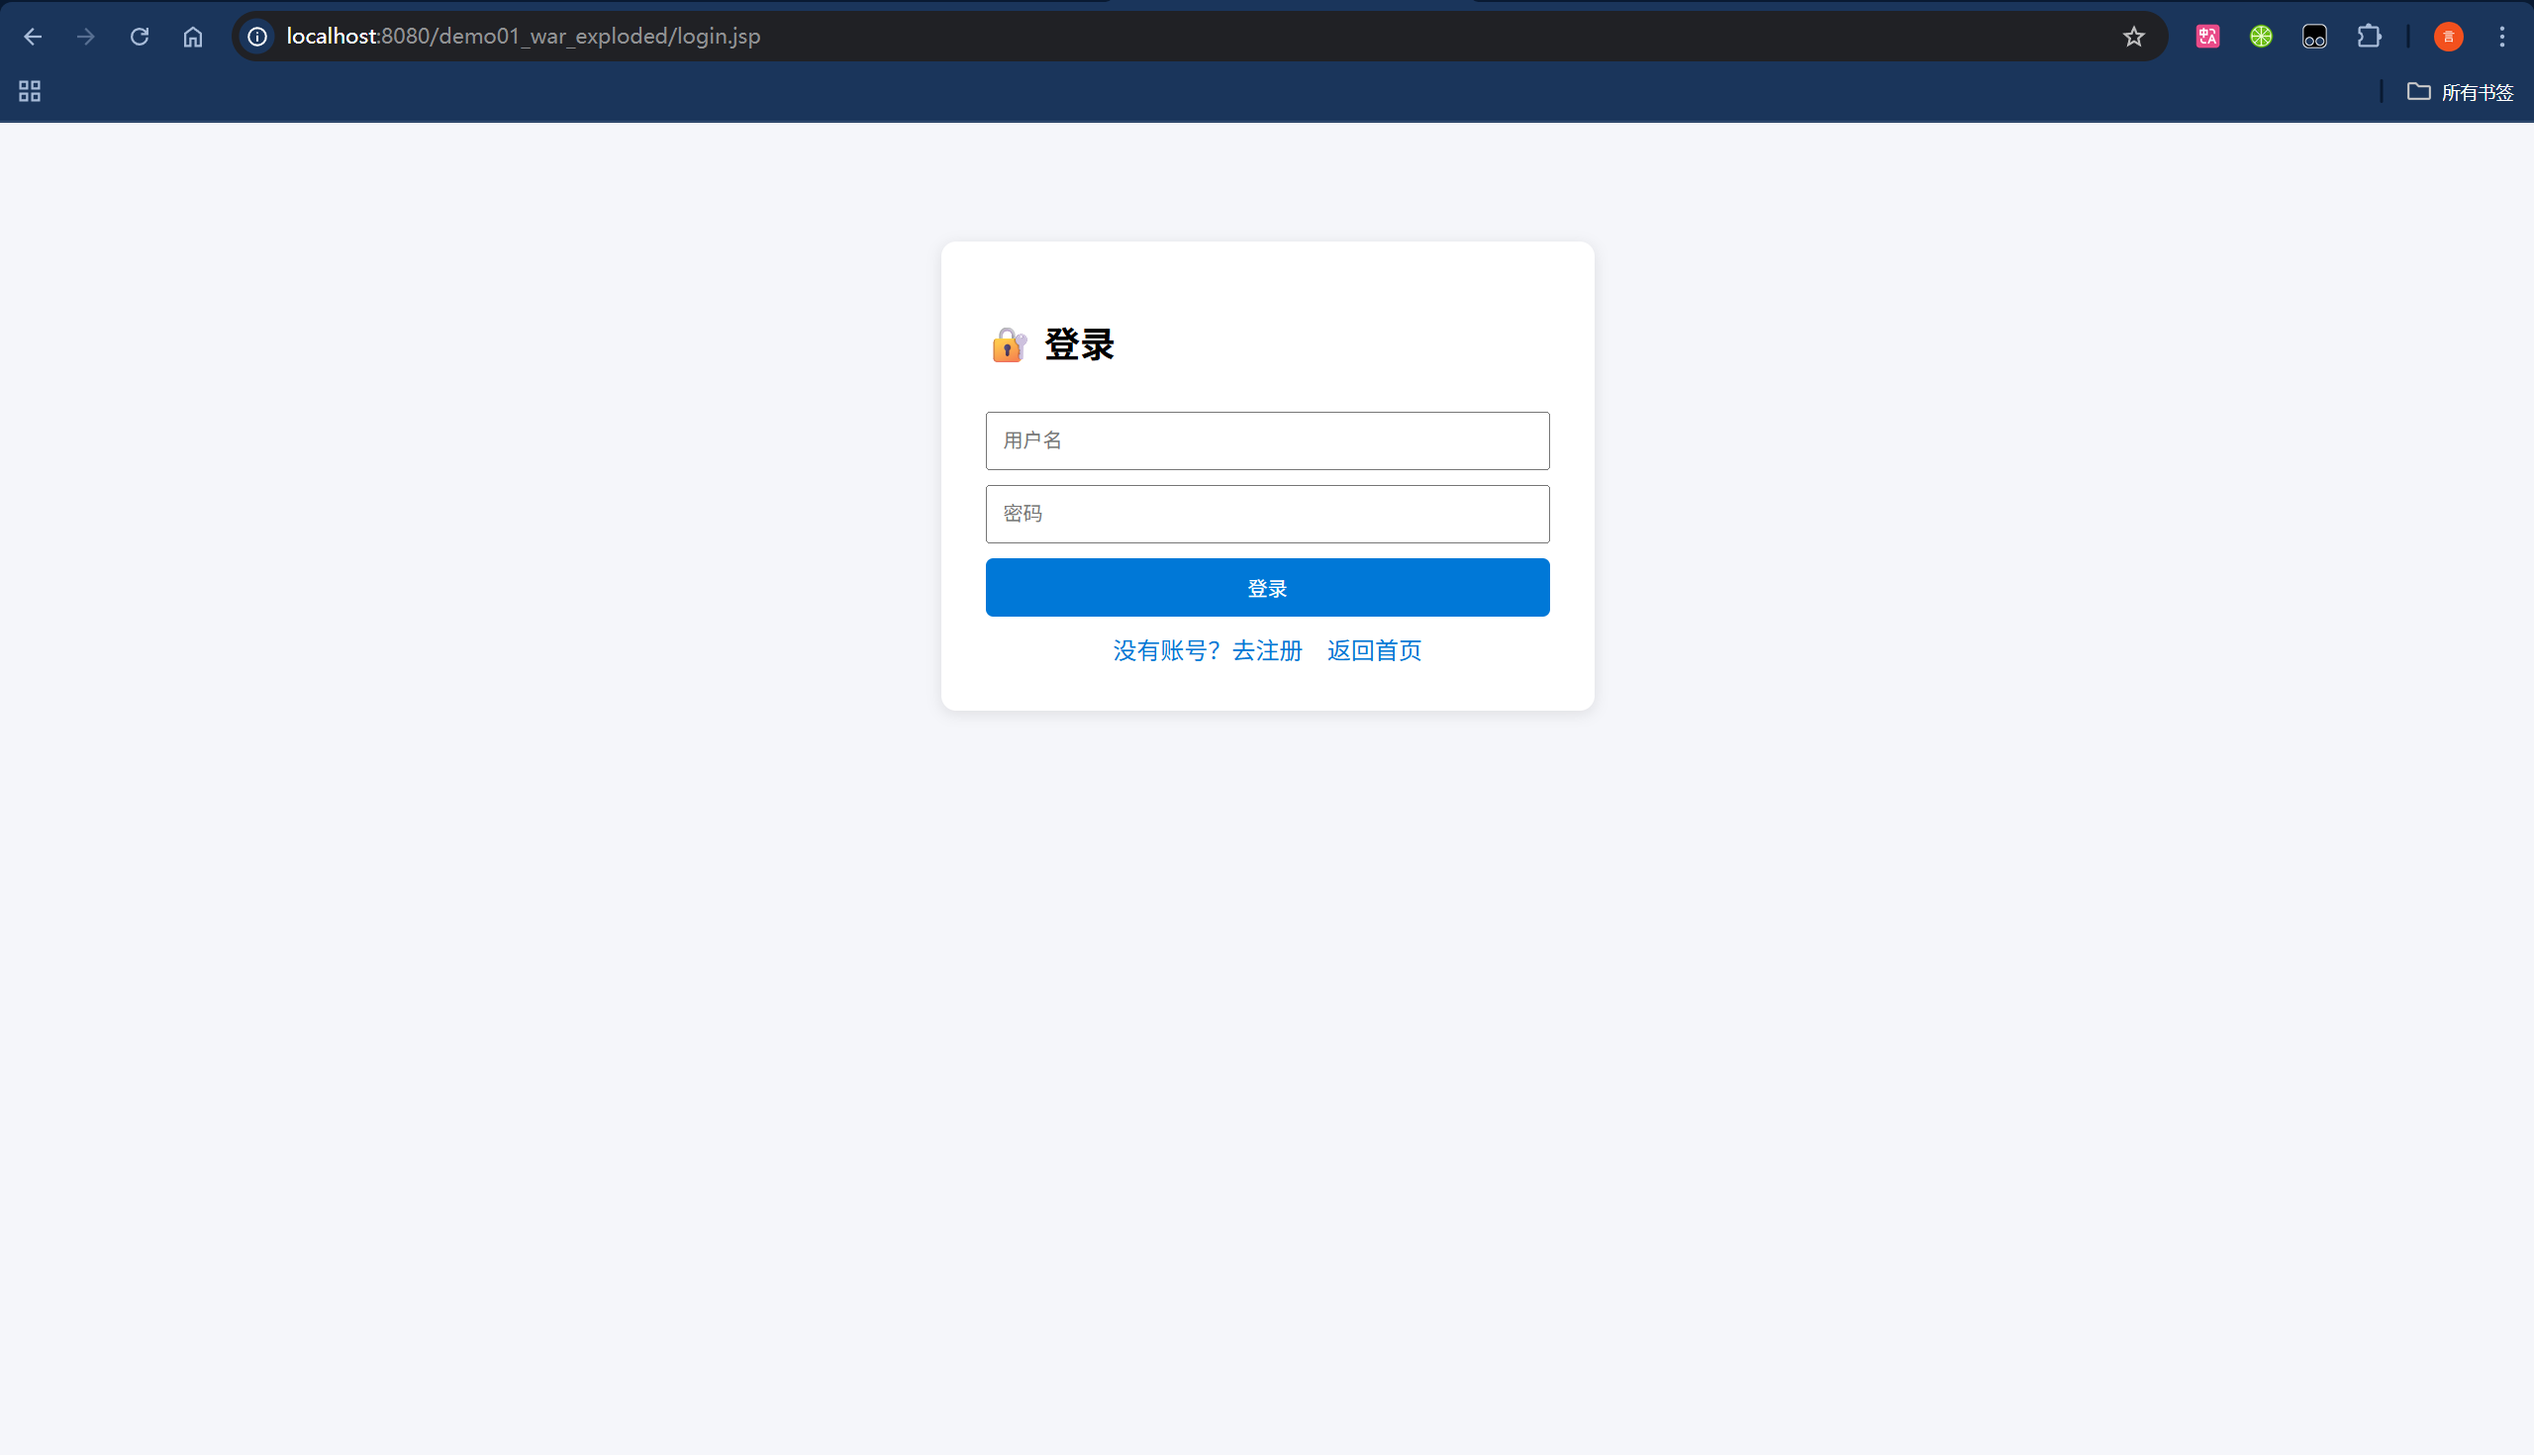
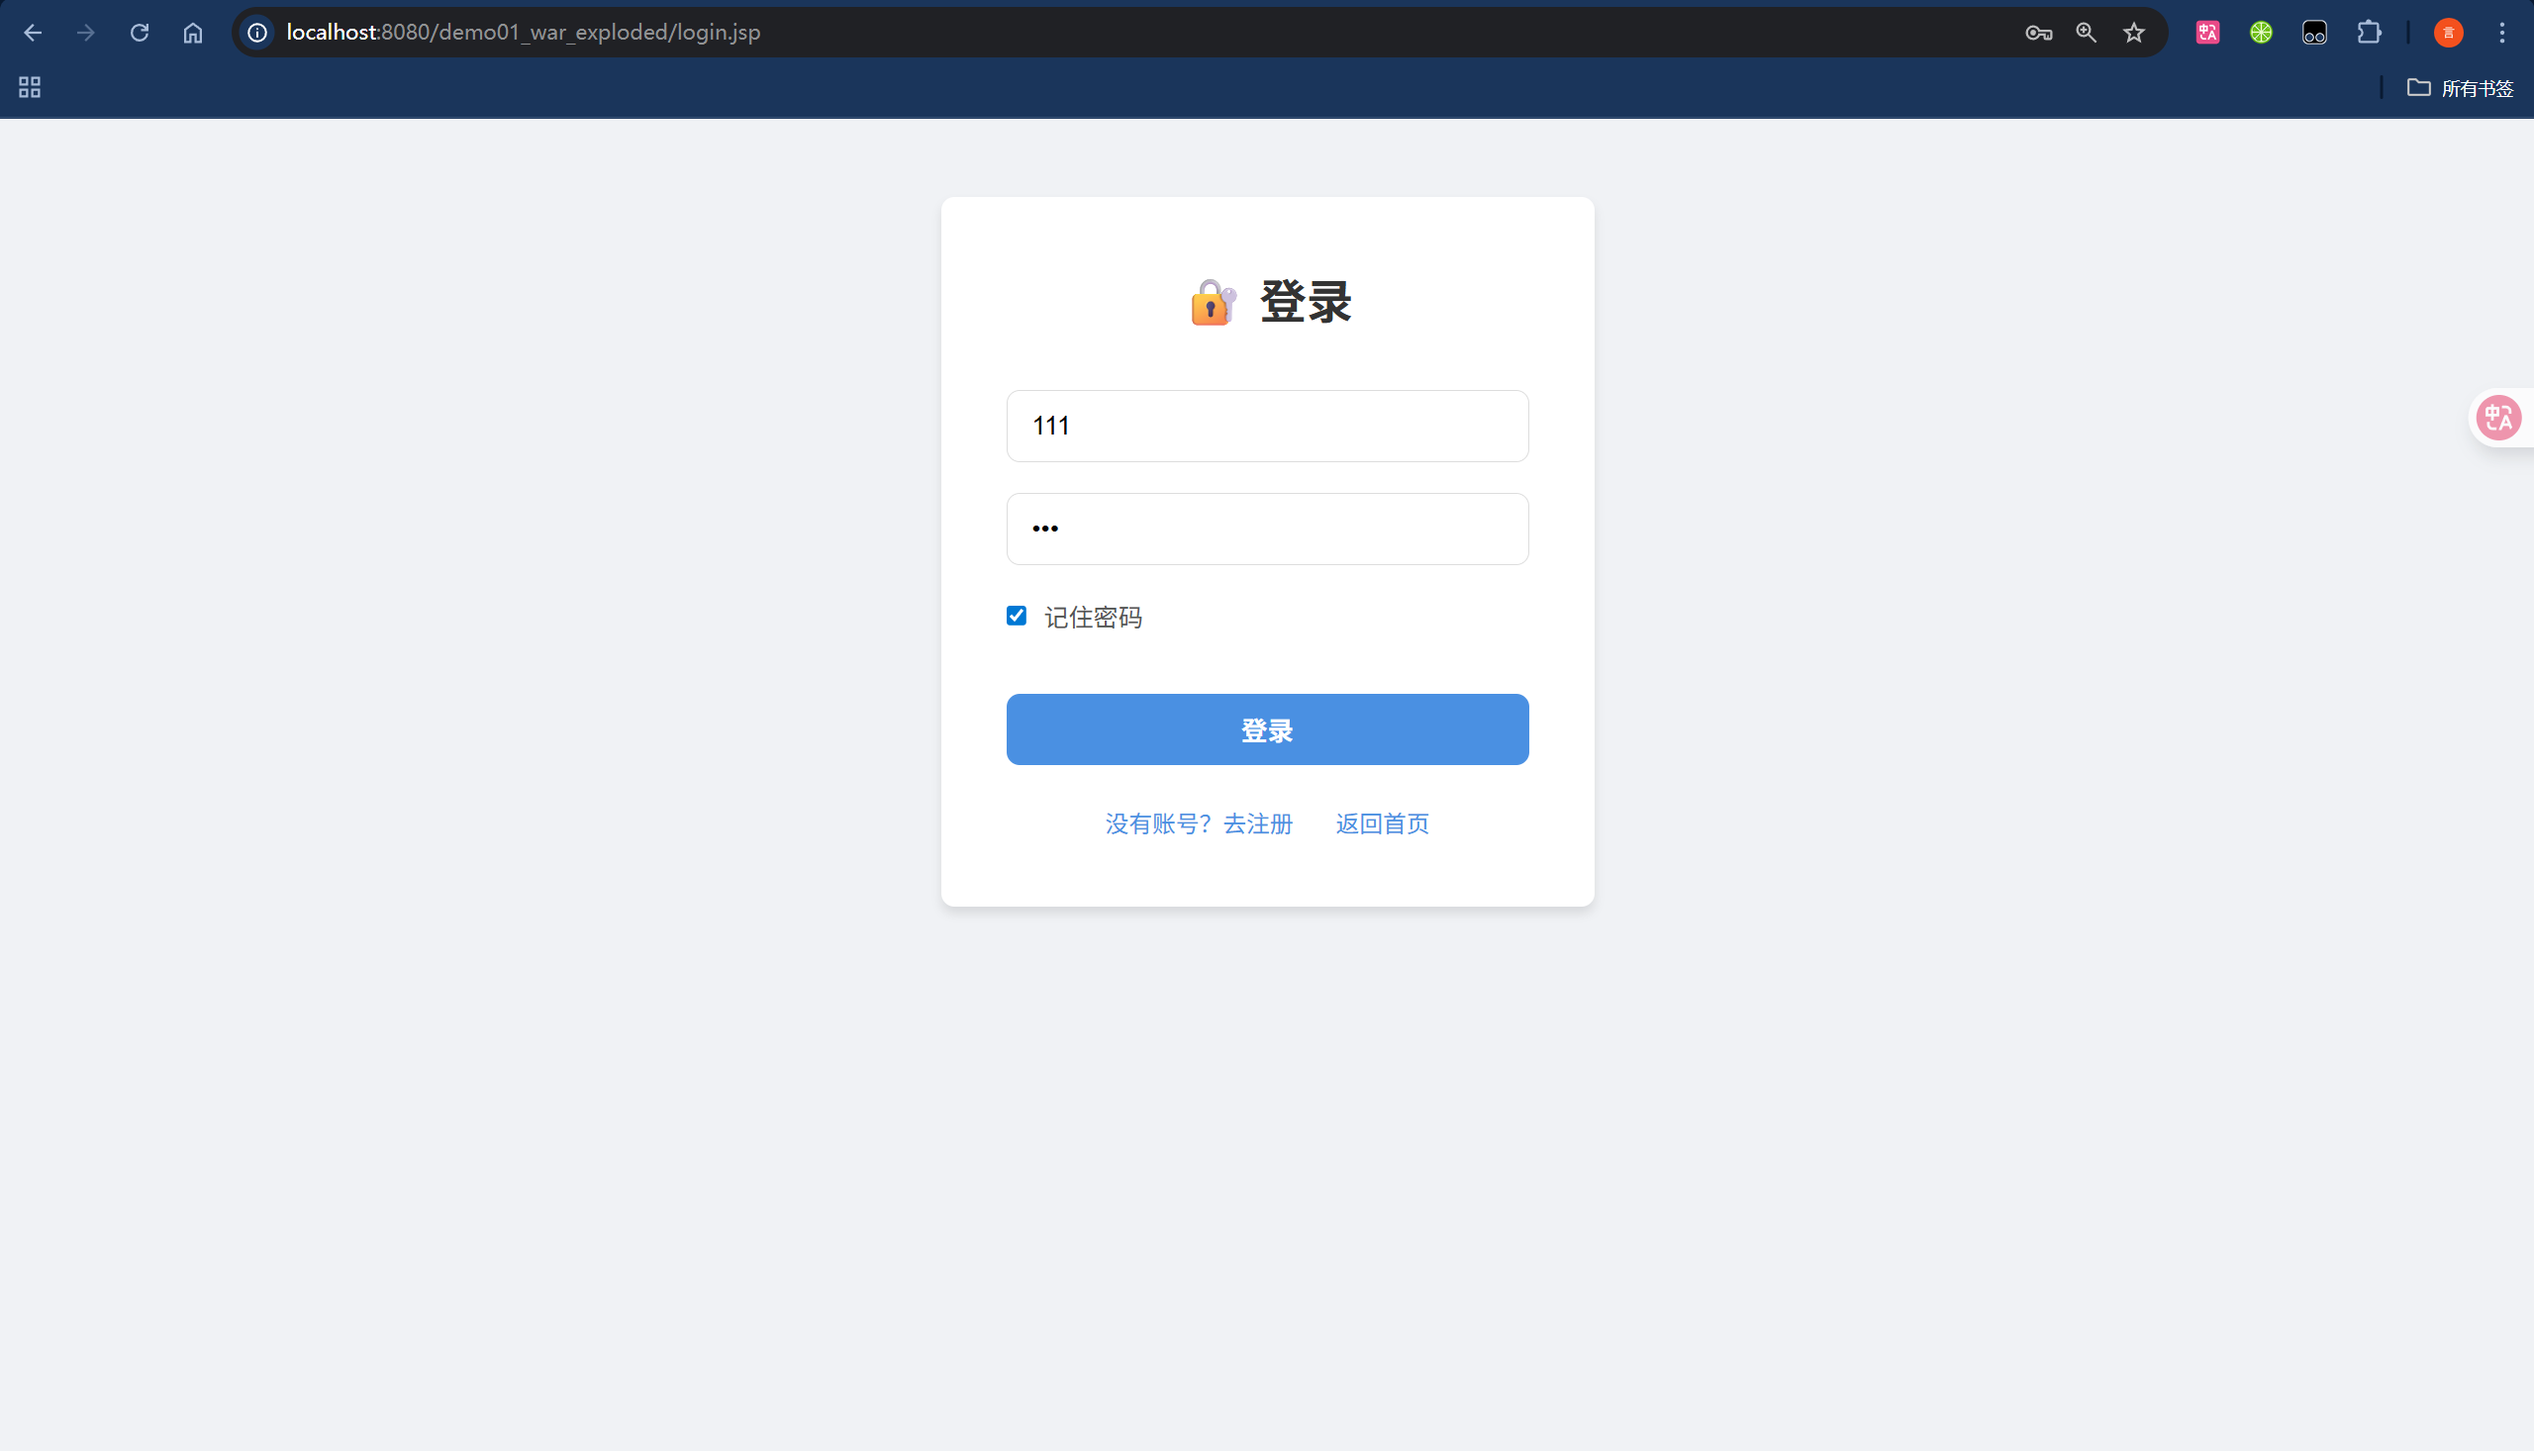
docs: 更新README并替换图片资源
更新README.md文件，移除了jQuery CDN的具体版本引用，使其更通用。同时替换了多个界面图片资源，包括登录、注册、地址管理等相关图片。

diff --git a/README.md b/README.md
@@ -53,7 +53,7 @@
   - 表单值读取：`$.trim($(form).find('[name="field"]').val())`
   - 响应处理：根据 `success/redirect/message` 做提示与跳转
   - 查询使用 `type: 'GET'` 携带分页与条件；新增/编辑/删除使用 `type: 'POST'`
-  - jQuery 引入采用 CDN：`https://code.jquery.com/jquery-3.7.1.min.js`（如有外网限制，建议改为本地文件并统一引用）
+  - jQuery 引入采用 CDN：
 - 样式与交互：
   - 引入 `web/css/style.css` 统一全站视觉风格
   - 登录页通过 `localStorage` 存储/读取用户名和密码，实现“记住密码”功能
